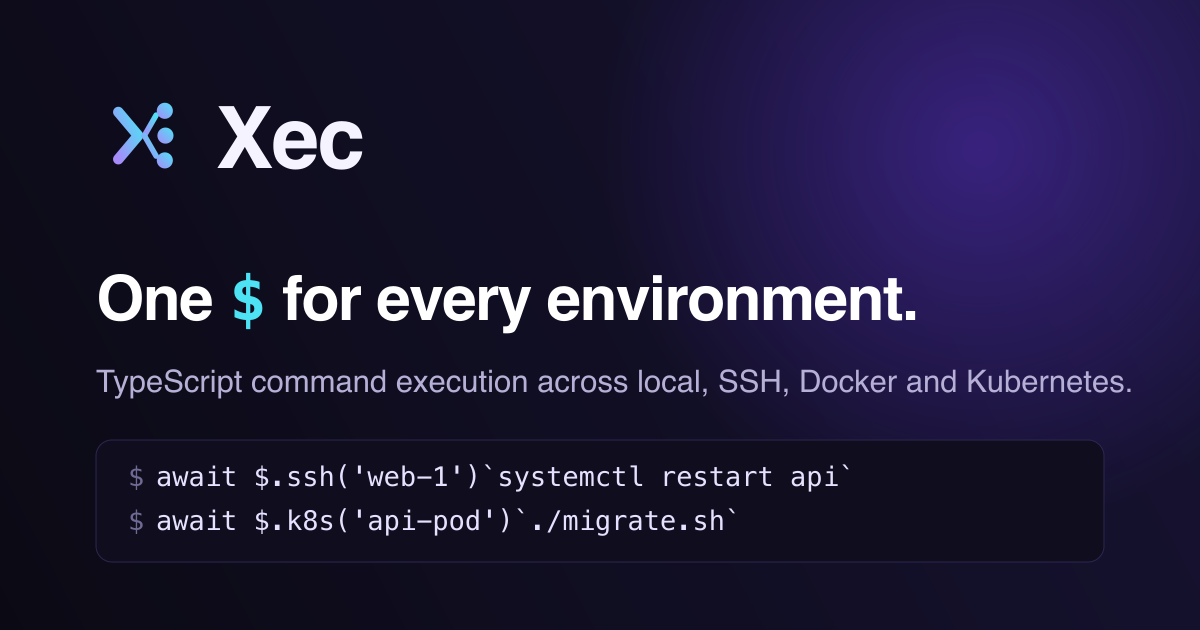
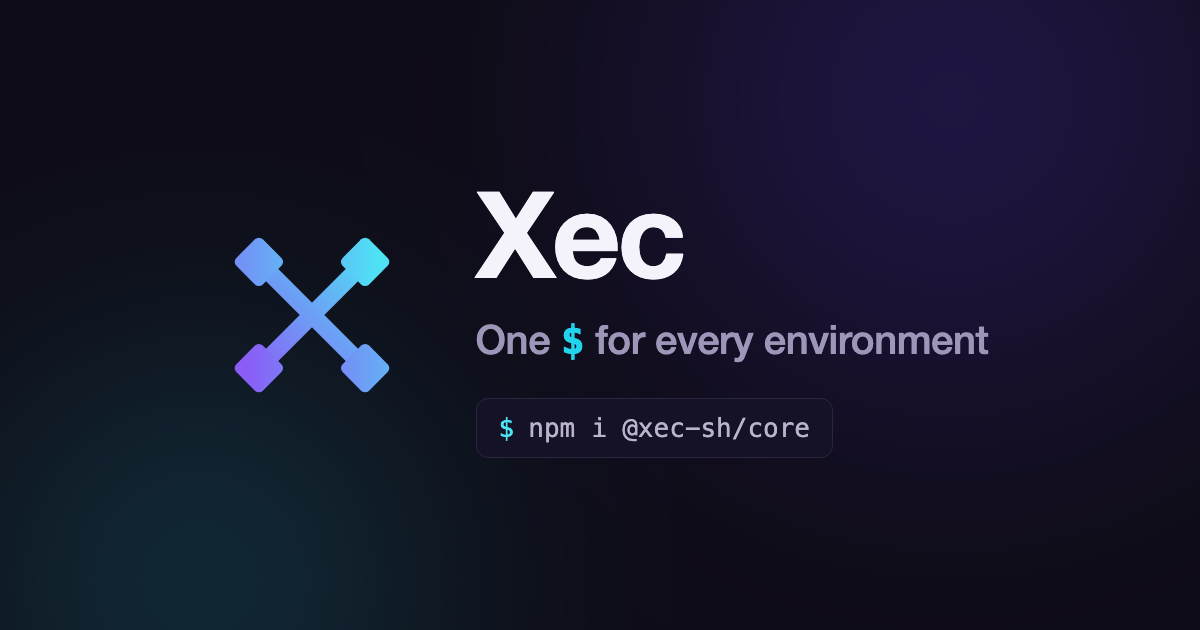
chore: release grooming — brand assets, footer, stale figures
media/ still carried the pre-rebrand mark — a teal circle with a shell
prompt, two identities ago. All three assets now match the current mark, and
the social card is regenerated around it, so a shared link previews the
brand that actually ships.

The footer loses Discussions — the repository has them switched off — and
Roadmap, which pointed at an empty projects tab; Community and Project merge
into one honest column. organizationName said xec-js where the organization
is xec-sh, and editUrl pointed at tree/main/docs/ while the documentation
lives in website/docs/ — every "Edit this page" link on the site was a 404.

The landing page's startup figure catches up with the measurement that
followed the lazy-discovery work: ~70ms against a ~28ms floor, where it
still claimed 150.

diff --git a/website/docusaurus.config.ts b/website/docusaurus.config.ts
@@ -42,7 +42,7 @@ const config: Config = {
   scripts: [{ src: 'https://analytics.ry.ht/script.js', defer: true, 'data-website-id': 'f53a4e1e-5727-410b-b9ce-8baf228f0128' }],
 
   // GitHub pages deployment config
-  organizationName: 'xec-js',
+  organizationName: 'xec-sh',
   projectName: 'xec',
 
   onBrokenLinks: 'warn',
@@ -68,7 +68,7 @@ const config: Config = {
       {
         docs: {
           sidebarPath: './sidebars.ts',
-          editUrl: 'https://github.com/xec-sh/xec/tree/main/docs/',
+          editUrl: 'https://github.com/xec-sh/xec/tree/main/website/docs/',
           showLastUpdateAuthor: true,
           showLastUpdateTime: true,
           versions: {
@@ -158,8 +158,6 @@ const config: Config = {
       respectPrefersColorScheme: true,
     },
 
-    // Announcement bar
-
     // Meta tags
     metadata: [
       { name: 'keywords', content: 'xec, universal execution, typescript, ssh, docker, kubernetes, command execution, automation, devops' },
@@ -236,15 +234,11 @@ const config: Config = {
           ],
         },
         {
-          title: 'Community',
+          title: 'Project',
           items: [
             {
               label: 'GitHub',
               href: 'https://github.com/xec-sh/xec',
-            },
-            {
-              label: 'Discussions',
-              href: 'https://github.com/xec-sh/xec/discussions',
             },
             {
               label: 'Issues',
@@ -253,15 +247,6 @@ const config: Config = {
             {
               label: 'Contributing',
               href: 'https://github.com/xec-sh/xec/blob/main/CONTRIBUTING.md',
-            },
-          ],
-        },
-        {
-          title: 'Project',
-          items: [
-            {
-              label: 'Roadmap',
-              href: 'https://github.com/xec-sh/xec/projects',
             },
             {
               label: 'Changelog',

diff --git a/website/src/pages/index.tsx b/website/src/pages/index.tsx
@@ -392,7 +392,7 @@ const FACTS = [
   { value: '1', label: 'runtime dependency', note: 'ssh2 — loaded only when an SSH target is used' },
   { value: '4', label: 'environments, one API', note: 'local, SSH, Docker, Kubernetes' },
   { value: '4,500+', label: 'tests', note: 'across the engine, CLI, loader and UI kit' },
-  { value: '~150ms', label: 'CLI startup', note: 'against a ~20ms floor for an empty Node process' },
+  { value: '~70ms', label: 'CLI startup', note: 'against a ~28ms floor for an empty Node process' },
 ] as const;
 
 function Facts(): React.ReactNode {
